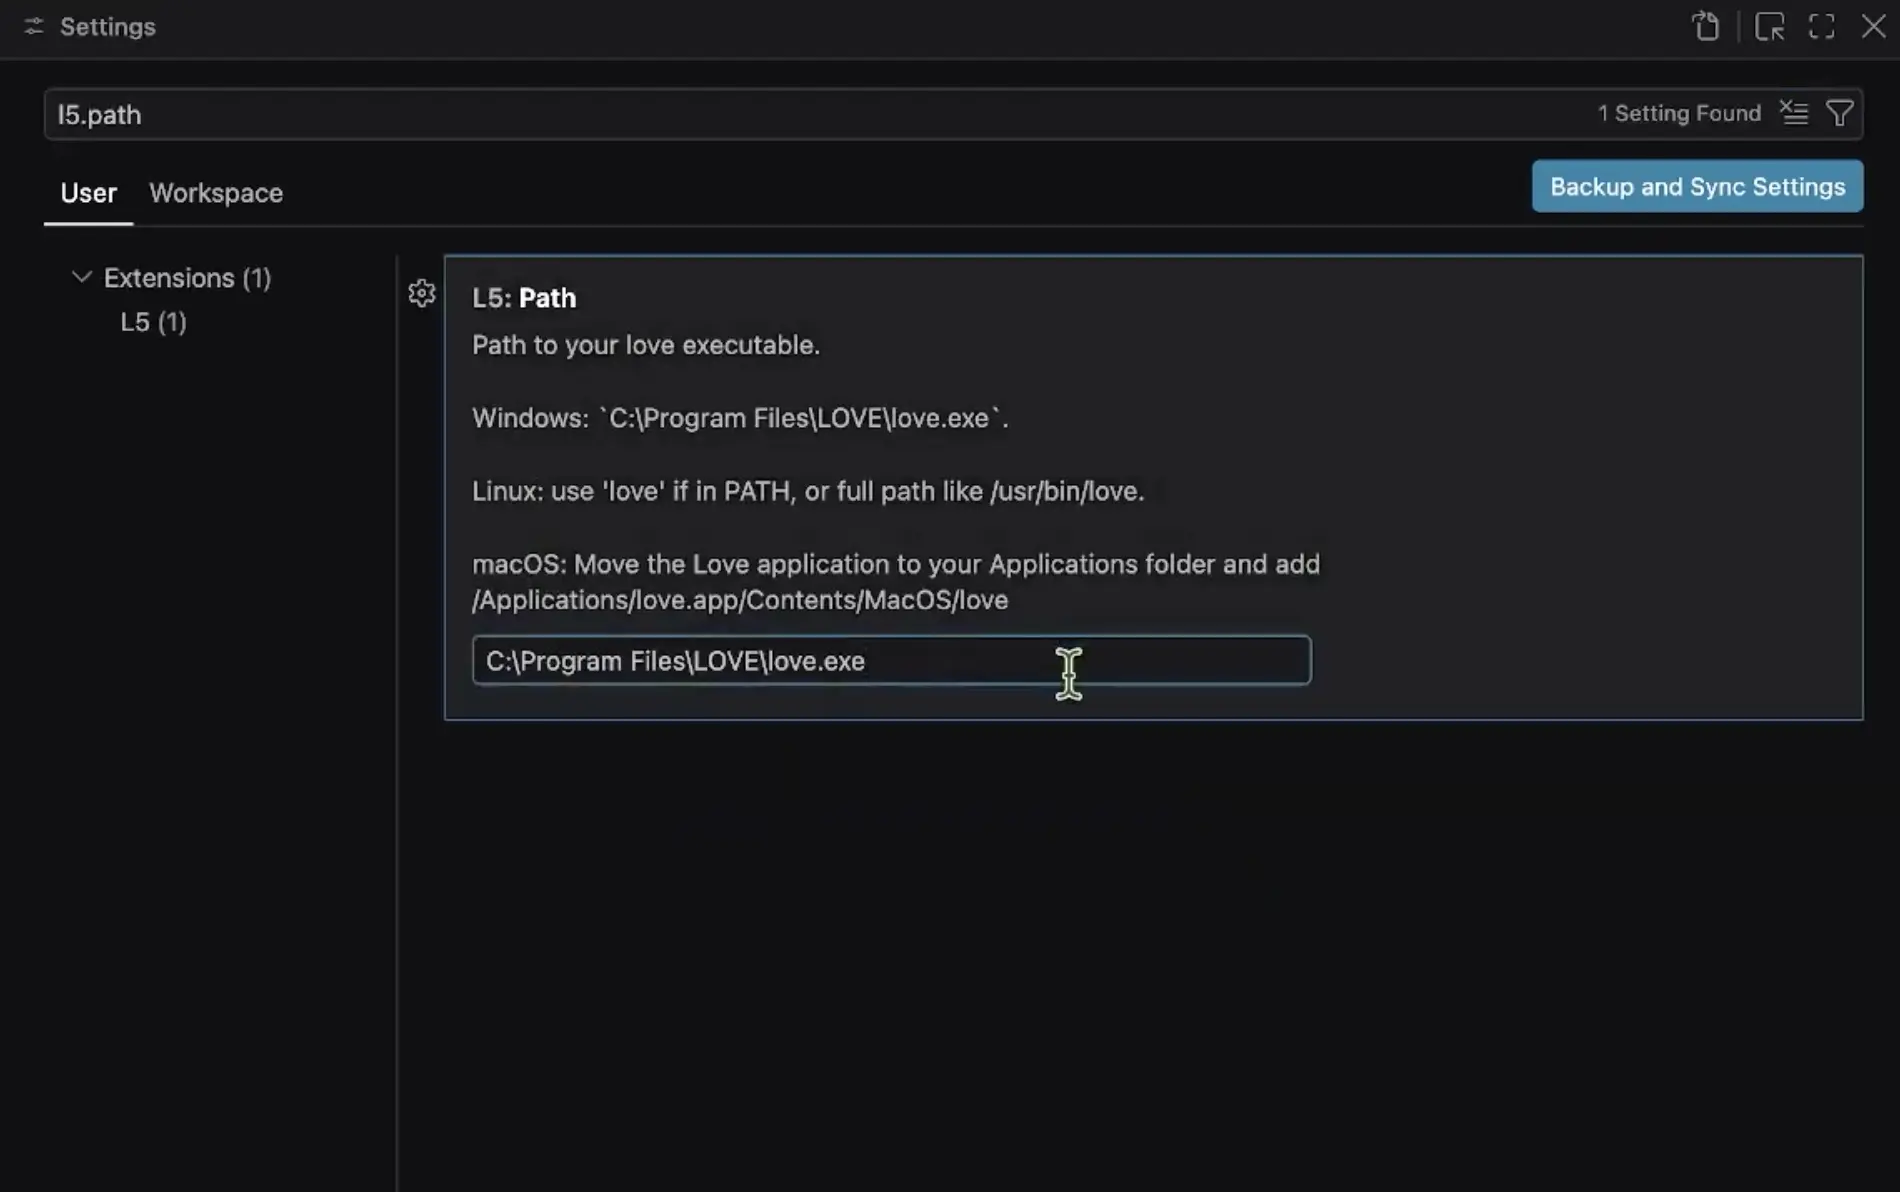
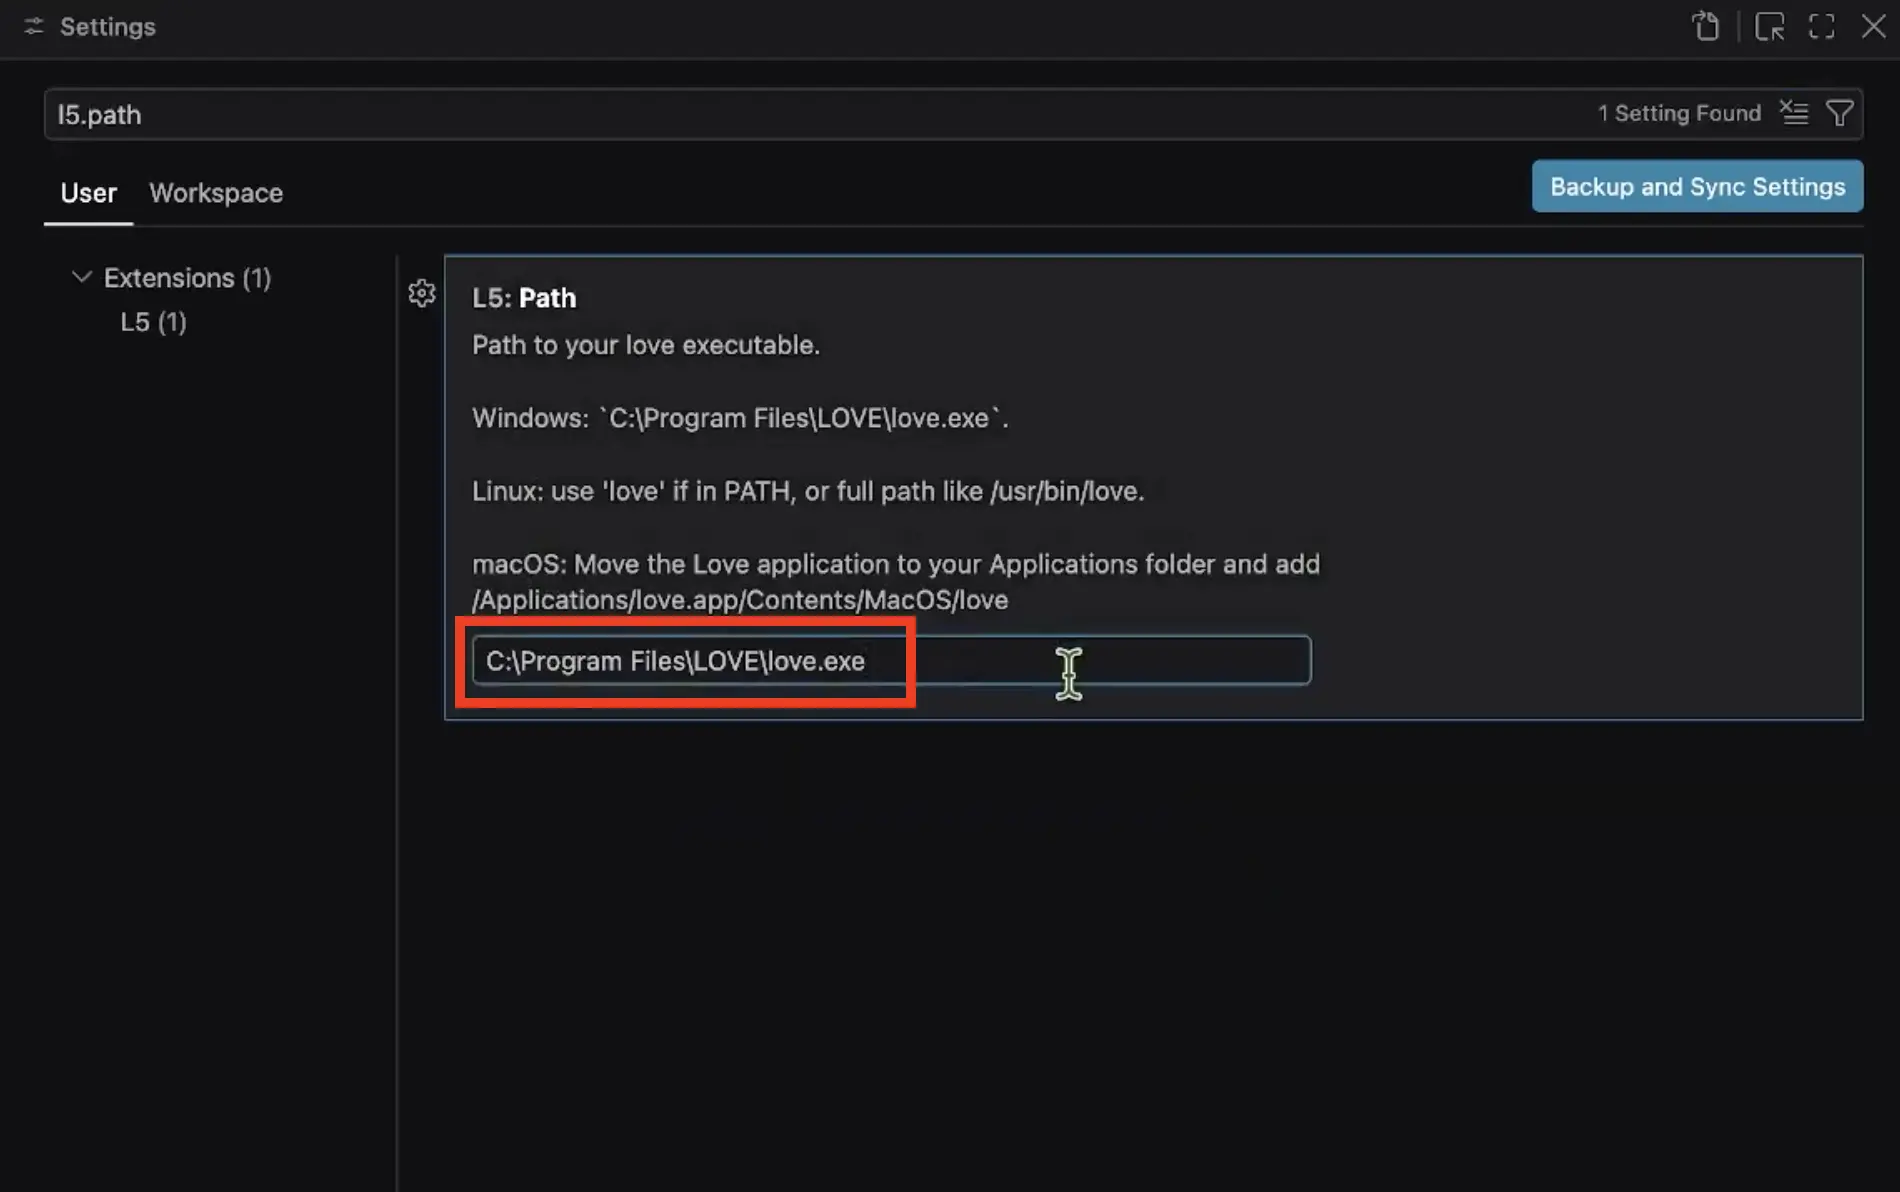
clarified some language around extension tutorial

Changed region(s): [[0.2174, 0.4966, 0.4968, 0.6208]]

diff --git a/docs/download/running.md b/docs/download/running.md
@@ -14,7 +14,11 @@ If you haven't installed the extension yet, in VSCodium or VS Code, open the ext
 
 ![Press install](/assets/tutorials/install/extension3.webp "Press install")
 
-Once it is installed and you have already created a `main.lua` file (or you downloaded the L5-starter folder), a new button appears in the bottom left corner.
+Click to download the [L5-starter folder](/L5-starter.zip) and extract it. In your text editor, click open folder and navigate to the L5-starter folder. 
+
+![Open folder](/assets/tutorials/install/open-folder.webp "Open folder")
+
+Once it is installed and you have already created a `main.lua` file (or you downloaded the L5-starter folder), a new button appears in the bottom left corner. If the button does not appear, make sure you have opened a single folder that contains `main.lua` and `L5.lua`.
 
 ![Run L5 button in the bottom left corner](/assets/tutorials/install/run-l5.webp "Run L5 button in the bottom left corner")
 
@@ -22,11 +26,19 @@ If you are running the extension for the first time, it will prompt you to open 
 
 ![Open extension settings](/assets/tutorials/install/extension-open-settings.webp "Open extension settings")
 
-Then, you need to change the path in the text box to whichever is specified in your computer. 
+In the settings panel that opens, you will need to specify the path to Love in the input text box at the bottom. The *path* is where Love exists on your computer. 
+
+* **Windows**: The path is already provided in the text box and you do not need to change anything. 
+* **Linux**: Use `love` if installed globally or the full path, usually `/usr/bin/love`
+* **Mac**: By default, Love will be in your Downloads folder. In Finder, drag Love from Downloads to your Applications folder. In the VSCode settings, change the path to `/Applications/love.app/Content/MacOS/love`
 
 ![Change the text in the text box to your OS path](/assets/tutorials/install/extension-path1.webp "Change the text in the text box to your OS path")
 
-When you want to see your sketch in action, press "Run L5". You can close the window or push the "Stop" button to stop running your sketch. 
+When you want to see your sketch in action, press "Run L5". 
+
+![Run L5](/assets/tutorials/install/run-l5.webp "Run L5")
+
+You can close the window or push the "Stop" button to stop running your sketch. 
 
 ![Close the sketch by closing the window or by pressing Stop](/assets/tutorials/install/stop-l5.webp "Close the sketch by closing the window or by pressing Stop")
 

diff --git a/docs/download/index.md b/docs/download/index.md
@@ -73,10 +73,6 @@ L5 uses the Love framework to power its library. There are current installation 
     6. Now go back to your Downloads folder and **Double click** on Love. We only need to do this once! It's to verify Love works on your computer, which will allow L5 to run your custom code. You should see a window open with a flying bird-shaped balloon and clouds, verifying that Love is now properly installed on your computer. **At this point you can close the window.** Usually on a Mac we place our applications into the Applications folder, so you may want to move it there. 
     ![A flying bird-shaped balloon and cartoon clouds](/assets/tutorials/install/mac6.webp 'A flying bird-shaped balloon and cartoon clouds')
     7. After that, move your Love application to your applications folder. 
-    8. From the L5lua.org Download page, [download the L5 Starter project](/L5-starter.zip).
-    ![L5 website download page with L5 Starter](/assets/tutorials/install/mac7.webp "L5 website download page with L5 Starter")
-    9. Click **"Allow"** if it asks 'Do you want to allow downloads on "l5lua.org"?'  
-    ![Alert box asking permission to download L5-Starter](/assets/tutorials/install/mac8.webp "Alert box asking permission to download L5 Starter")
 
 === "Install Linux"
 
@@ -143,6 +139,8 @@ document.getElementById('yt').addEventListener('click', function(e) {
   this.outerHTML = '<iframe width="560" height="315" src="https://www.youtube.com/embed/AP1zTY_w9IU?autoplay=1" allow="autoplay" allowfullscreen></iframe>';
 });
 </script>
+
+---
 
 Congratulations! You've now installed Love and have the L5 Starter on your computer. 
 
